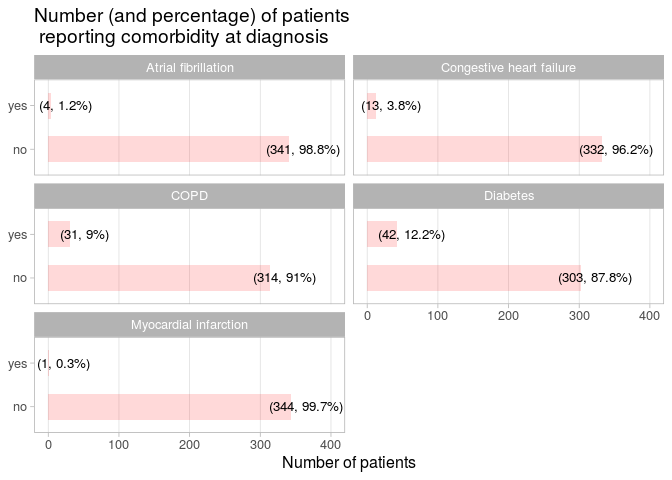
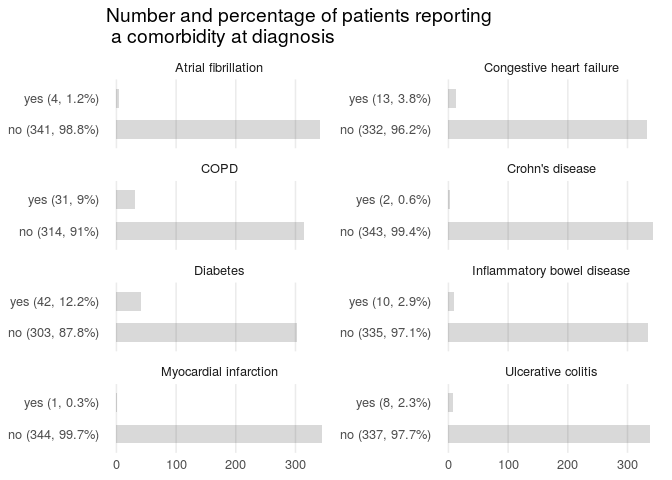
Add additional CMs, drop first version plot

diff --git a/02_ida_univar_crs.md b/02_ida_univar_crs.md
@@ -82,19 +82,19 @@ Medical history
 
 A summary of medical history measured at *diagnosis* (TODO: check when
 medical history / comorbidities were assessed): \* AFib, \* MI \* CHF \*
-Diabetes
+Diabetes \* Crohn’s disease
 
 Print out descriptive summary.
 
 ``` r
 crs %>% 
-  select(chf, afib, mi, diabetes) %>%
+  select(chf, afib, mi, diabetes, crohn, ulcercol, ibd) %>%
   Hmisc::describe()
 ```
 
     ## . 
     ## 
-    ##  4  Variables      345  Observations
+    ##  7  Variables      345  Observations
     ## --------------------------------------------------------------------------------
     ## chf : congesitive heart failure 
     ##        n  missing distinct 
@@ -128,6 +128,30 @@ crs %>%
     ## Frequency    303    42
     ## Proportion 0.878 0.122
     ## --------------------------------------------------------------------------------
+    ## crohn : Crohn's disease 
+    ##        n  missing distinct 
+    ##      345        0        2 
+    ##                       
+    ## Value          0     1
+    ## Frequency    343     2
+    ## Proportion 0.994 0.006
+    ## --------------------------------------------------------------------------------
+    ## ulcercol : ulceratie colitis 
+    ##        n  missing distinct 
+    ##      345        0        2 
+    ##                       
+    ## Value          0     1
+    ## Frequency    337     8
+    ## Proportion 0.977 0.023
+    ## --------------------------------------------------------------------------------
+    ## ibd : inflammatory bowel disease 
+    ##        n  missing distinct 
+    ##      345        0        2 
+    ##                       
+    ## Value          0     1
+    ## Frequency    335    10
+    ## Proportion 0.971 0.029
+    ## --------------------------------------------------------------------------------
 
 Plot of the distribution of patients with specific comorbidities
 measured at diagnosis.
@@ -138,7 +162,7 @@ by comorbidity
 
 ``` r
 crs %>%
-  select(id, chf, afib, diabetes, mi, copd) %>%
+  select(id, chf, afib, diabetes, mi, copd, crohn, ulcercol, ibd) %>%
   pivot_longer(-id, names_to = "comorb", values_to = "value") %>%
   mutate(
     comorb = case_when(
@@ -146,50 +170,10 @@ crs %>%
       comorb == "afib" ~ "Atrial fibrillation",
       comorb == "diabetes" ~ "Diabetes",
       comorb == "copd" ~ "COPD",
-      comorb == "mi" ~ "Myocardial infarction"
-    ),
-    value = case_when(value == "0" ~ "no",
-                      value == "1" ~ "yes")
-  ) %>%
-  group_by(comorb, value) %>%
-  summarise(n = n()) %>%
-  mutate(
-    inc = n / bigN,
-    perc = n / bigN * 100,
-    plot_lab = paste0('(', n, ', ', round(perc, digits = 1), '%)')
-  ) %>%
-  ggplot(aes(value, n)) +
-  geom_col(width = 0.6,
-           alpha = 0.15,
-           fill = "red") +
-  geom_text(aes(y = n, label = plot_lab), size = 3.5, nudge_y = 20) +
-  scale_y_continuous(limits = c(0, 400)) +
-  coord_flip() +
-  facet_wrap( ~ comorb, ncol = 2) +
-  ggtitle("Number (and percentage) of patients\n reporting comorbidity at diagnosis") +
-  ylab("Number of patients") +
-  theme(
-    panel.grid.minor = element_blank(),
-    panel.grid.major.y = element_blank(),
-    axis.title.y = element_blank()
-  )
-```
-
-![](02_ida_univar_crs_files/figure-markdown_github/unnamed-chunk-4-1.png)
-
-Alternative way to plot information.
-
-``` r
-crs %>%
-  select(id, chf, afib, diabetes, mi, copd) %>%
-  pivot_longer(-id, names_to = "comorb", values_to = "value") %>%
-  mutate(
-    comorb = case_when(
-      comorb == "chf" ~ "Congestive heart failure",
-      comorb == "afib" ~ "Atrial fibrillation",
-      comorb == "diabetes" ~ "Diabetes",
-      comorb == "copd" ~ "COPD",
-      comorb == "mi" ~ "Myocardial infarction"
+      comorb == "mi" ~ "Myocardial infarction",
+      comorb == "crohn" ~ "Crohn's disease",
+      comorb == "ulcercol" ~ "Ulcerative colitis",
+      comorb == "ibd" ~ "Inflammatory bowel disease"
     ),
     value = case_when(value == "0" ~ "no",
                       value == "1" ~ "yes")
@@ -200,15 +184,15 @@ crs %>%
     inc = n / bigN,
     perc = n / bigN * 100,
     plot_lab = paste0('(', n, ', ', round(perc, digits = 1), '%)'),
-    axis_lab = paste0(value, ' ','(', n, ', ', round(perc, digits = 1), '%)')
+    axis_lab = paste0(value, ' ', '(', n, ', ', round(perc, digits = 1), '%)')
   ) %>%
   ggplot(aes(axis_lab, n)) +
   geom_col(width = 0.6,
            alpha = 0.15,
-           fill = "red") +
+           fill = "black") +
   coord_flip() +
-  facet_wrap( ~ comorb, ncol = 3, scales = "free_y") +
-    ggtitle("Number and percentage of patients reporting\n a comorbidity at diagnosis") +
+  facet_wrap(~ comorb, ncol = 2, scales = "free_y") +
+  ggtitle("Number and percentage of patients reporting\n a comorbidity at diagnosis") +
   theme_minimal(base_size = 12) +
   theme(
     panel.grid.minor = element_blank(),
@@ -217,7 +201,7 @@ crs %>%
   )
 ```
 
-![](02_ida_univar_crs_files/figure-markdown_github/unnamed-chunk-5-1.png)
+![](02_ida_univar_crs_files/figure-markdown_github/unnamed-chunk-4-1.png)
 
 Patient characteristics
 -----------------------
